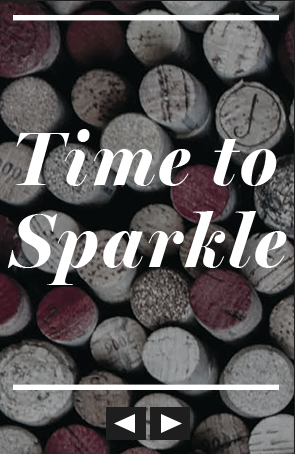
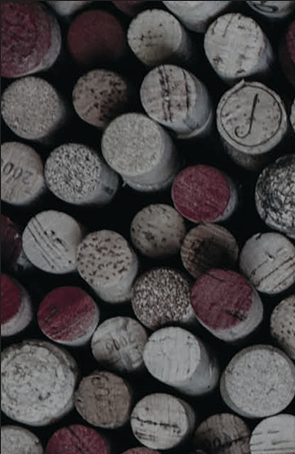
Revision Content.

diff --git a/skin/frontend/iwd/default/css/styles.css b/skin/frontend/iwd/default/css/styles.css
@@ -406,7 +406,8 @@ fieldset {
 
 img {
     display: block;
-    width: 100%
+    width: 100%;
+    height: 100%;
 }
 
 ol,
@@ -2811,6 +2812,12 @@ input[type=text] {
     padding: 0 8px;
 }
 
+input[type=text],
+input[type=email] {
+    height: 40px;
+    padding: 0 8px;
+}
+
 input[type=email],
 input[type=search],
 input[type=number],
@@ -2819,6 +2826,13 @@ input[type=tel],
 input[type=text] {
     width: 365px;
     max-width: 100%;
+}
+
+input[type=email],
+input[type=text] {
+    width: 94%;
+    max-width: 100%;
+    outline: none;
 }
 
 /* Only show on iPhones (not iPads or any other device) */
@@ -10170,6 +10184,24 @@ div.paypal-logo span > img {
     opacity: .5;
 }
 
+.cycle-overlay {
+    width: 35%;
+    background-color: red;
+    opacity: 1;
+    left: 35px;
+    bottom: 60px;
+    text-transform: uppercase;
+    font-size: 1.5em;
+    height: 17%;
+    min-height: 100px;
+}
+
+@media only screen and (max-width: 970px) {
+    .cycle-overlay {
+        font-size: 0.8em;
+    }
+}
+
 /* ============================================ *
  * Wishlist
  * ============================================ */
@@ -12177,6 +12209,67 @@ div.calendar table td.button {
     margin-bottom: 25px;
 }
 
+.arrow-content-slider {
+    position: absolute;
+    bottom: 15px;
+    z-index: 1000;
+    left: 35%;
+    width: 40%;
+}
+
+.content-slideshow-prev {
+    width: 33%;
+    height: 32px;
+    background: url("../images/arrow_prev_content.png") no-repeat;
+}
+
+.content-slideshow-next {
+    width: 33%;
+    height: 32px;
+    background: url("../images/arrow_next_content.png") no-repeat;
+}
+
+.content-slideshow-prev:hover {
+
+    background: url("../images/arrow_prev.png") 0 -1px no-repeat;
+}
+
+.content-slideshow-next:hover {
+
+    background: url("../images/arrow_next.png") no-repeat;
+}
+
+#sparkle {
+    position: absolute;
+    height: 82%;
+    top: 15px;
+    right: 5%;
+    z-index: 10001;
+    width: 90%;
+    border-bottom: 5px solid #fff;
+    border-top: 5px solid #fff;
+}
+
+#sparkle p {
+    color: #fff;
+    text-align: center;
+    font-size: 4em;
+    font-family: sans-serif;
+    line-height: 1em;
+    margin-top: 40%;
+}
+
+@media only screen and (max-width: 780px) {
+    #sparkle p {
+        font-size: 1em;
+    }
+}
+
+.arrow-content-slider button {
+    border: none;
+    outline: none;
+}
+
 /*Sidebar-right*/
 
 .sidebar-right {
@@ -12193,7 +12286,71 @@ div.calendar table td.button {
 }
 
 .sidebar-right-img-left {
+    width: 48%;
+    height: 300px;
     float: left;
+    background: url("../images/delivery.png") no-repeat;
+    background-size: 100% 100%;
+    position: relative;
+}
+
+.sidebar-right-img-right {
+    width: 48%;
+    height: 300px;
+    float: left;
+    background: url("../images/join.png") no-repeat;
+    background-size: 100% 100%;
+    position: relative;
+}
+
+.button-join {
+    width: 95%;
+    height: 15%;
+    bottom: 5px;
+    left: 2%;
+}
+
+.button-delivery {
+    width: 95%;
+    height: 15%;
+    bottom: 5px;
+    left: 2%;
+}
+
+.button-content:hover {
+    background-color: #ed2a23;
+}
+
+.sidebar-left-img-img-bottom {
+    width: 100%;
+    height: 309px;
+    float: left;
+    background: url("../images/book-club.png") no-repeat;
+    background-size: 100% 100%;
+    position: relative;
+}
+
+.button-book-club {
+    width: 95%;
+    height: 15%;
+    bottom: 5px;
+    left: 2%;
+}
+
+.sidebar-left-img-img-bottom:hover {
+    background: url("../images/book_club_hover.png") no-repeat;
+    background-size: 100% 100%;
+}
+
+.button-content {
+    background-color: #626262;
+    outline: none;
+    border: none;
+    color: #ffffff;
+    text-transform: uppercase;
+    font-size: 20px;
+    font-family: sans-serif;
+    position: absolute;
 }
 
 .sidebar-right-img-right {
@@ -12226,20 +12383,97 @@ div.calendar table td.button {
 .sidebar-bottom-img-top {
     border: 3px solid #1e1e1e;
     width: 100%;
-    height: auto;
+    height: 465px;
     margin-bottom: 20px;
+    background: url("../images/wine_pairing.png") no-repeat;
+    background-size: 100% 100%;
+    position: relative;
+}
+
+.button-get-started {
+    width: 90%;
+    height: 50px;
+    position: absolute;
+    left: 5%;
+    top: 275px;
+    color: #1e1e1e;
+    background-color: #ffffff;
+}
+
+.button-get-started:hover {
+    background-color: #ed2a23;
 }
 
 .sidebar-bottom-img-bottom {
     border: 3px solid #1e1e1e;
     width: 100%;
-    height: auto;
+    height: 319px;
+    background: url("../images/send.png") no-repeat;
+    background-size: 100% 100%;
+    position: relative;
+}
+
+.sidebar-bottom-img-bottom form {
+    margin: 130px 0 0 5%;
+}
+
+.send-name {
+    margin-bottom: 20px;
+}
+
+::-webkit-input-placeholder {
+    color: #595959;
+}
+
+:-moz-placeholder {
+    /* Firefox 18- */
+    color: #595959;
+}
+
+::-moz-placeholder {
+    /* Firefox 19+ */
+    color: #595959;
+}
+
+:-ms-input-placeholder {
+    color: #595959;
+}
+
+.button-send {
+    height: 45px;
+    width: 90%;
+    position: absolute;
+    bottom: 10px;
+    left: 5%;
+    text-align: center;
 }
 
 .container-bottom-img-top {
     width: 65.5%;
     border: 3px solid #1e1e1e;
     margin-bottom: 25px;
+    background: url("../images/viwe_more.png") no-repeat;
+    background-size: 100% 100%;
+    position: relative;
+    height: 285px;
+}
+
+.container-bottom-img-top:hover {
+    background: url("../images/viwe_more_hover.png") no-repeat;
+    background-size: 100% 100%;
+}
+
+.button-view-more:hover {
+    background-color: #ed2a23;
+}
+
+.button-view-more {
+    position: absolute;
+    height: 15%;
+    bottom: 5px;
+    left: 25.5%;
+    width: 48%;
+    background-color: #1e1e1e;
 }
 
 /*col-left*/
@@ -12247,7 +12481,7 @@ div.calendar table td.button {
 .container-bottom-col-left {
     border: 3px solid #1e1e1e;
     width: 32%;
-    height: auto;
+    height: 390px;
     float: left;
     margin-bottom: 25px;
 }
@@ -12255,18 +12489,40 @@ div.calendar table td.button {
 .container-bottom-col-center {
     border: 3px solid #1e1e1e;
     width: 32%;
-    height: auto;
+    height: 495px;
     float: right;
     margin-right: 20px;
     overflow: hidden;
+    background: url("../images/political.png") no-repeat;
+    background-size: 100% 100%;
+    position: relative;
+}
+
+.container-bottom-col-center:hover {
+    background: url("../images/political_active.png") no-repeat;
+    background-size: 100% 100%;
+}
+
+.button-media-pairings {
+    outline: none;
+    border: none;
+    color: #ffffff;
+    text-transform: uppercase;
+    font-size: 20px;
+    font-family: sans-serif;
+    position: absolute;
+    width: 90%;
+    height: 45px;
+    bottom: 10px;
+    left: 5%;
 }
 
 .container-bottom-col-right {
     border: 3px solid #1e1e1e;
     width: 66%;
-    height: auto;
+    height: 285px;
     float: right;
-    margin-top: 30px;
+    margin-top: 25px;
 }
 
 @media only screen and (max-width: 650px) {

diff --git a/skin/frontend/iwd/default/js/home_slideshow.js b/skin/frontend/iwd/default/js/home_slideshow.js
@@ -1,15 +1,22 @@
 $j(document).ready(function () {
-
-    $j('.home-slideshow-container .home-slideshow')
+    $j('.home-slideshow-container')
         .cycle({
-            slides: '> li',
-            pager: '.home-slideshow-pager',
-            pagerTemplate: '<span class="pager-box"></span>',
             speed: 600,
             pauseOnHover: true,
             swipe: true,
             prev: '.home-slideshow-prev',
             next: '.home-slideshow-next',
+            fx: 'scrollHorz',
+            paused: 'false'
+        });
+
+    $j('.sidebar-left-img-top')
+        .cycle({
+            speed: 600,
+            pauseOnHover: true,
+            swipe: true,
+            prev: '.content-slideshow-prev',
+            next: '.content-slideshow-next',
             fx: 'scrollHorz',
             paused: 'false'
         });
